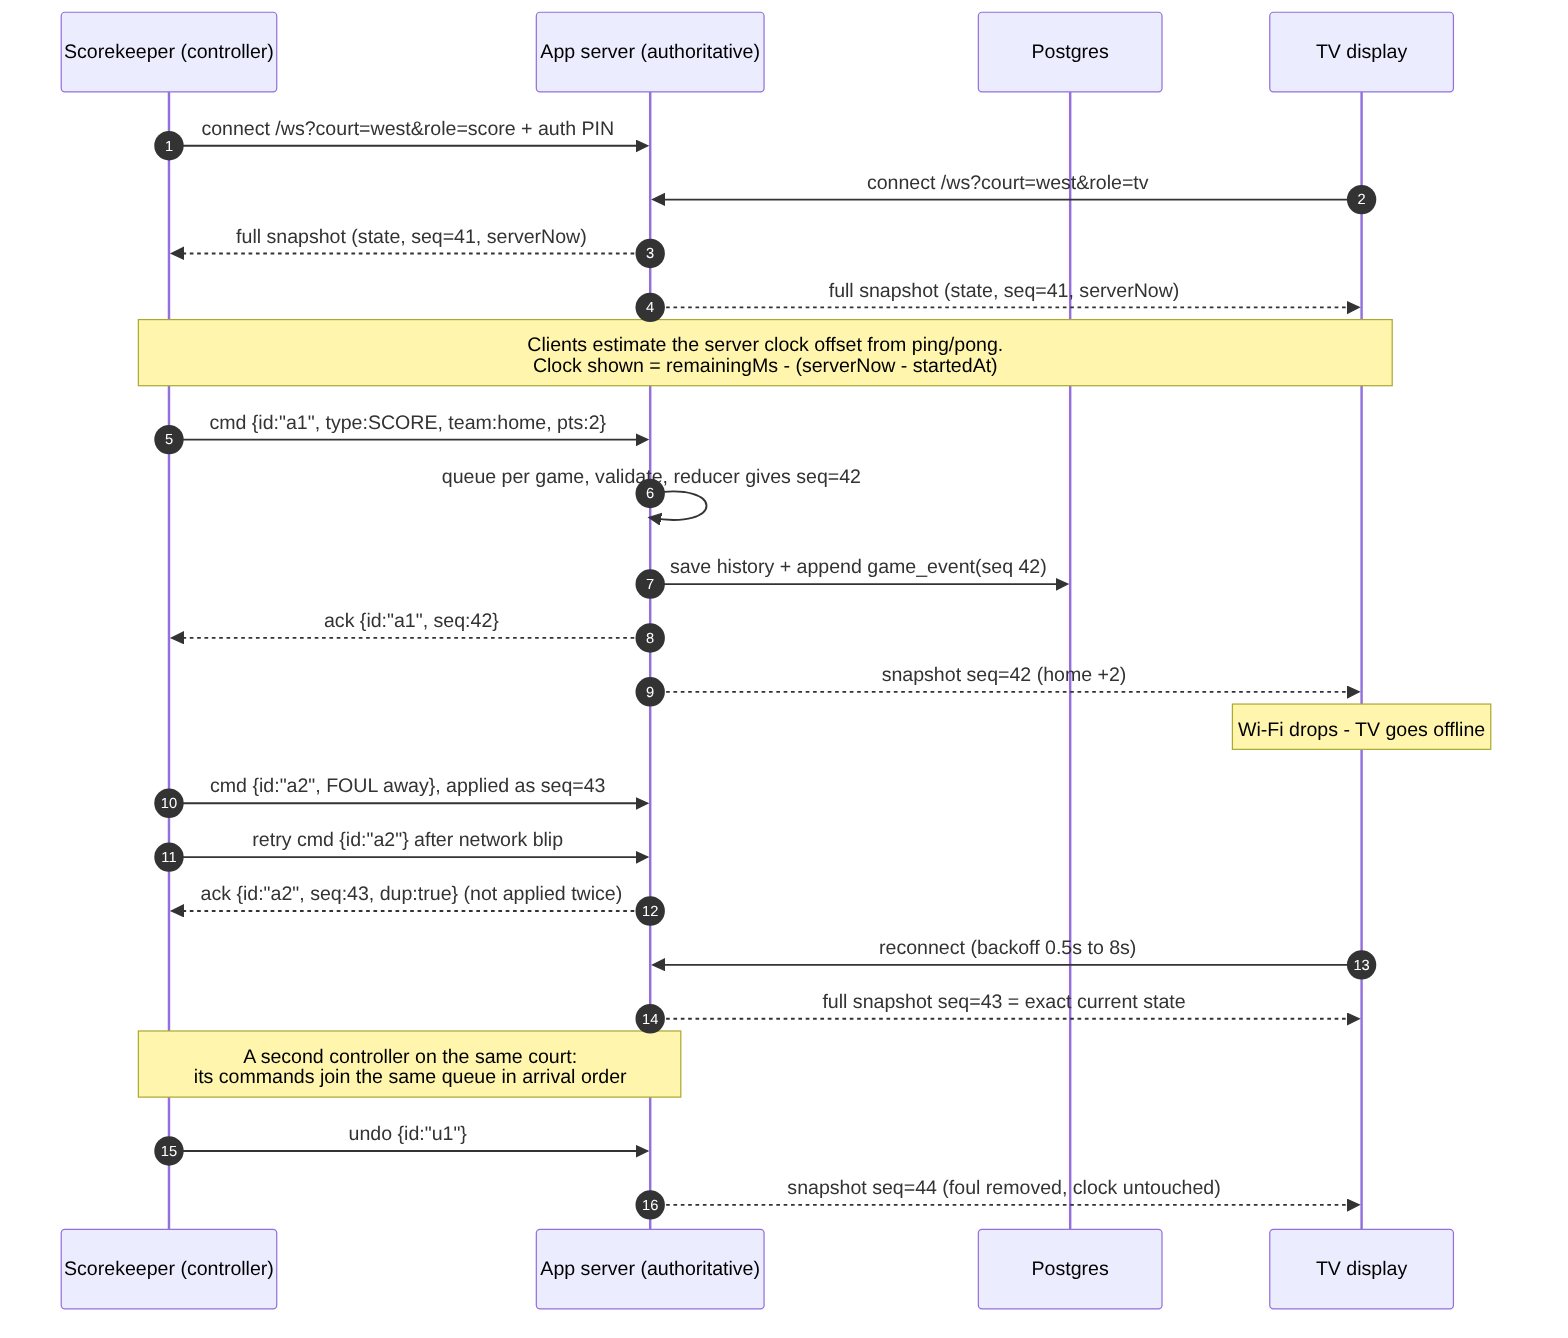
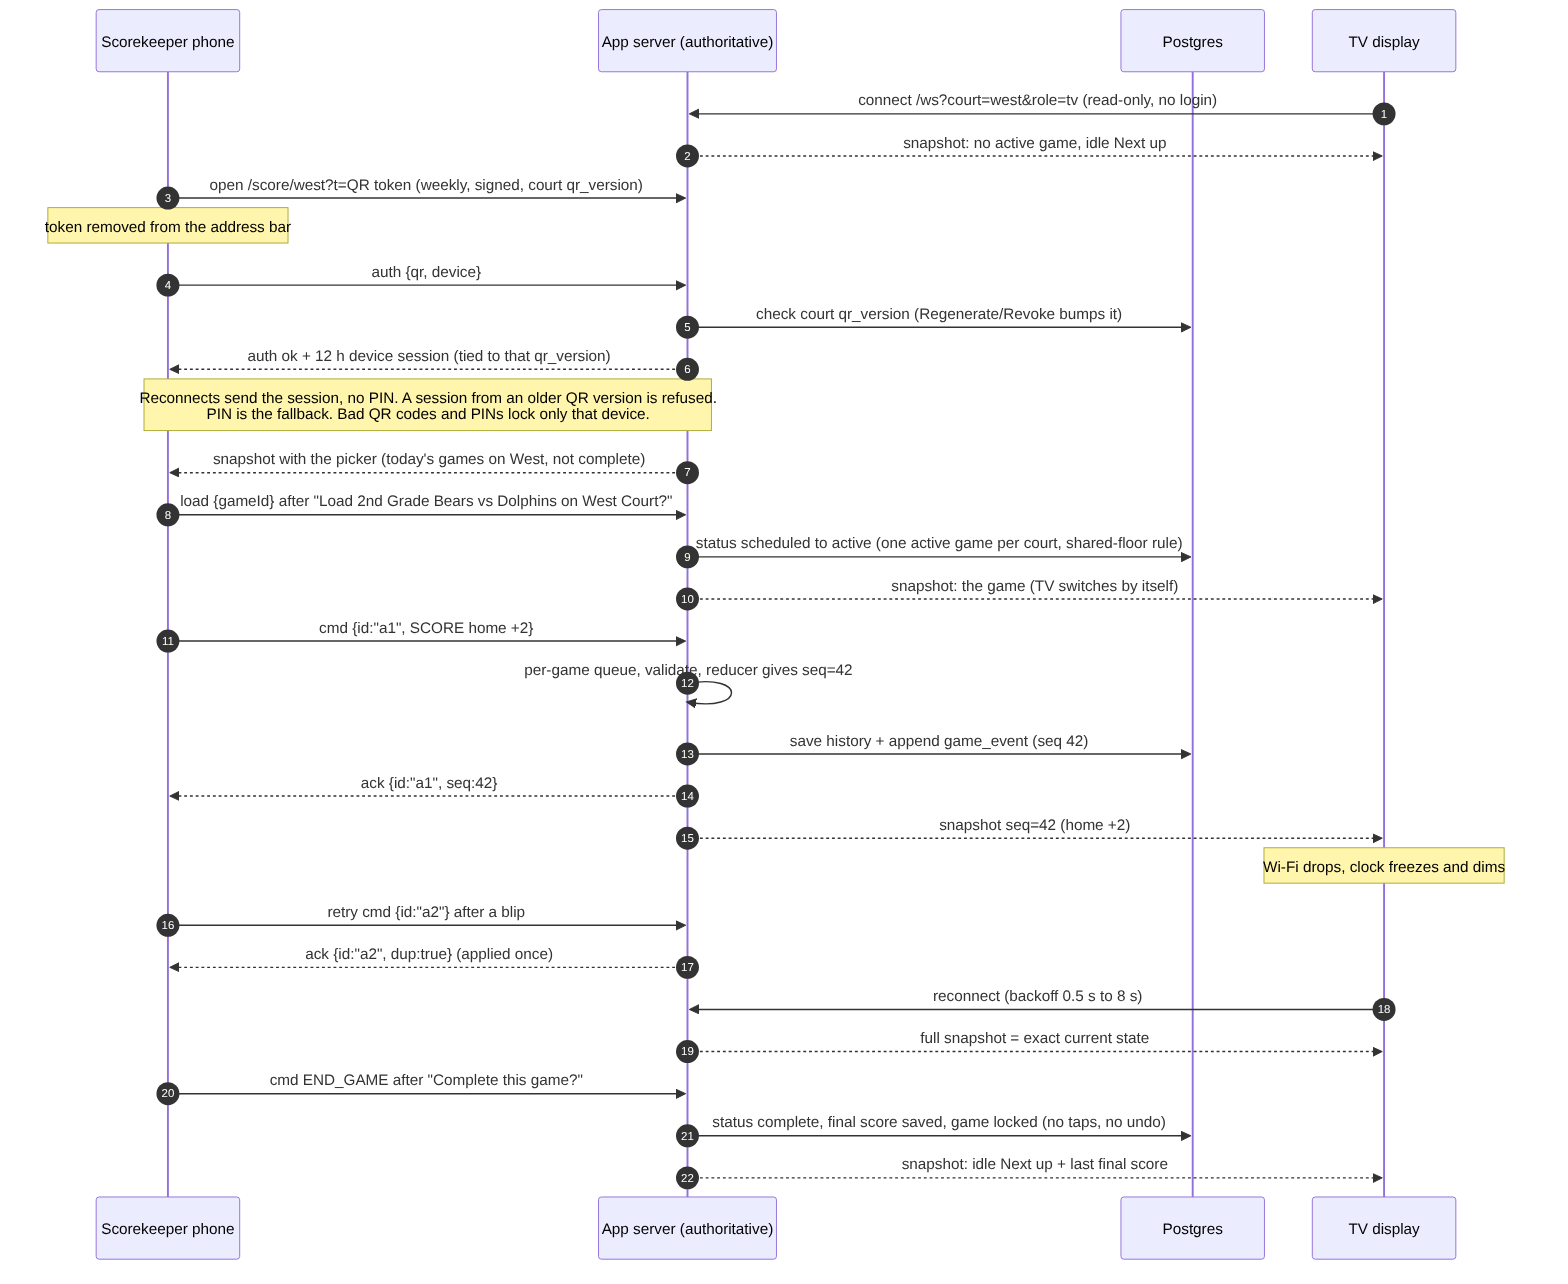
Docs: realtime sequence with QR sign-in -> session -> picker -> load -> complete; POC doc final pass (round 4 fixes, QR invalidation, backstop, CSV partial rows, test counts, backlog)

diff --git a/deliverables/UpwardScoreboard-POC.md b/deliverables/UpwardScoreboard-POC.md
@@ -9,7 +9,7 @@ Prepared by Devon (lead developer) with Sage (UI/UX), Avery (QA) and Morgan (PM)
 - Approach: custom build, fully cloud-hosted. There is no computer at the gym; it needs only a TV device with a browser and the scorekeeper's phone or tablet.
 - Three modules: Score (bench controller), Display (TV board plus stream overlay), Admin (teams, courts, schedule).
 - Stack: one TypeScript Node 20 container that serves the web pages, the API and live WebSocket updates, plus managed Postgres.
-- Status: a working POC runs with docker compose. Current batch (courts, shared floor, grades, season colors, cheer squads, QR scorekeeping flow), on a freshly rebuilt container: unit tests 18/18, browser offline test 13/13, browser lockout test 8/8, browser flow test 15/15, and the end-to-end smoke test 133/133 run twice in a row on the same used database.
+- Status: a working POC runs with docker compose. After QA round 4 fixes, on a freshly rebuilt container: unit tests 18/18, browser offline test 13/13, browser lockout test 8/8, browser flow test 19/19, and the end-to-end smoke test 144/144 run twice in a row on the same used database.
 - Courts: Full (whole floor), West and East (half courts). Full cannot run at the same time as West or East; West and East can run together. See section 3.4.
 - Recommended host: Render, about $13 per month including managed Postgres.
 
@@ -69,7 +69,7 @@ URLs: /score/full, /score/west, /score/east (one link per court; the weekly cour
 
 URLs: /upwardbasketballscores/fullcourt, /upwardbasketballscores/westcourt and /upwardbasketballscores/eastcourt (full-screen TV board), the same with /overlay on the end (transparent scorebug for OBS), and /tv/split (West and East side by side on one TV). The older /tv/west and /overlay/west style links still work. All are public and read-only. Each link stays on the court all day: it shows an idle "Next up" screen between games and switches to the next game by itself.
 
-TV layout: church logo (CHURCH_LOGO_URL) and name, league name and a court · grade · matchup header (for example "West · 5th Grade · Eagles vs Lions"). For each team: a color bar in the team's season color, logo or initial badge, name, optional cheer squad name and logo, a large score, fouls, timeout dots and a BONUS tag. In the center: a red clock, the period (OT1, OT2 for overtime) and the possession arrow. At the bottom: an UP NEXT ticker from the schedule. Also a HALFTIME/FINAL banner, and a waiting screen when no game is on the court.
+TV layout: church logo (CHURCH_LOGO_URL) and name, league name and a court · grade · matchup header (for example "West · 5th Grade · Eagles vs Lions"). For each team: a color bar in the team's season color, logo or initial badge, name, optional cheer squad name and logo, a large score, fouls, timeout dots and a BONUS tag. In the center: a red clock, the period (OT1, OT2 for overtime) and the possession arrow. At the bottom: an UP NEXT ticker from the schedule (games on a later day show the date, for example "Sat Oct 24 · 10:00"). Also a HALFTIME/FINAL banner, and a waiting screen when no game is on the court.
 
 | Behavior | Status | Notes |
 |---|---|---|
@@ -183,7 +183,7 @@ Grades. Each team has a grade (seeded: 2nd, 3rd, 4th and 5th Grade). A game must
 
 Scorekeeping flow (Aaron's Saturday):
 
-1. Each week Admin prints the court QR sheet (Admin > Courts > Print QR codes): one signed code per court, valid until Sunday 23:59 Kansas City time. Regenerate or Revoke on a court makes its old codes stop working at once.
+1. Each week Admin prints the court QR sheet (Admin > Courts > Print QR codes): one signed code per court, valid until Sunday 23:59 Kansas City time. Regenerate or Revoke on a court makes its old codes stop working at once and signs out every phone that signed in with an old code (they see "This phone was signed in with a court QR code that has been replaced…" and can scan the new code or use the PIN). Phones signed in with the PIN stay signed in.
 2. The volunteer scans the court's QR. It opens /score/west, signs the device in for 12 hours and removes the code from the address bar. The court PIN still works as the fallback. A bad, expired or revoked code shows a clear message and counts toward the device lockout, like a wrong PIN.
 3. The phone lists today's games on that court that are not complete. Tapping one asks "Load 5th Grade Eagles vs Lions on West Court?". Confirming makes it the court's active game. Only one game can be active per court (enforced by the database), and the shared-floor rule applies.
 4. The TV and overlay links switch to the active game automatically, and back to the idle "Next up" screen (with the last final score) when it is completed.
@@ -203,7 +203,7 @@ Recommendation: A, with C on the main site for a friendly link. Set PUBLIC_BASE_
 
 Migration. No wipe is needed. On start the server renames an existing court-1 to west and court-2 to east (keeping their games), adds full with its floor rule, maps old statuses (live to active, final to complete; if a court had more than one live game, the extra ones are completed), and adds the new columns with defaults. This was tested on a copy of a database from the previous version and is safe to run repeatedly. Update COURT_PINS to full, west and east. For a clean demo with today's sample games, reset the dev database with docker compose down -v.
 
-Test counts for this batch (freshly rebuilt container): unit 18/18; browser offline 13/13; browser lockout 8/8; browser flow 15/15 (QR sign-in, picker, complete lock, resume, TV switching); smoke 133/133 (including team names per grade and the cheer logo export), run twice in a row on the same used database (covers floor overlap in CSV and Admin, grades, season colors, cheer squads, QR tokens, one active game per court, complete locking and the status export and import).
+Test counts (after the QA round 4 fixes, freshly rebuilt container): unit 18/18; browser offline 13/13; browser lockout 8/8; browser flow 19/19 (QR sign-in, picker, complete lock, resume, TV switching, sign-out on Regenerate, QR lockout wording, idle cleanup); smoke 144/144 (including team names per grade, cheer logo export, QR session invalidation, the shared-IP spare phone case and the round 4 CSV fixes), run twice in a row on the same used database (covers floor overlap in CSV and Admin, grades, season colors, cheer squads, QR tokens, one active game per court, complete locking and the status export and import).
 
 Markup added for Sage (functional only, unstyled where noted): church logo and name on the TV and overlay; cheer squad slots on the TV; grade spans on the TV, overlay and scorekeeper; idle screen #idle with #next-up and .last-final (unstyled); scorekeeper #picker with .pick items and .status-badge, #resume prompt, dialog#confirm-dialog and #complete-game; Admin #season-form with the .contrast-warn box, #swap-colors, #cheer-fields, grade filters, status badges, Start/Complete/Reopen buttons and the QR print panel #qr-panel (print-friendly .qr-card, .no-print buttons); public/split.html with split.css (Sage owns it).
 
@@ -212,7 +212,7 @@ What Avery should test in this batch:
 1. Start West and East together; then try to start Full: refused ("Full is live"), and Admin's "Start anyway?" works.
 2. Import a schedule CSV where a Full game overlaps a West game: that row is an error naming the game. Try a 45-minute game using the minutes column.
 3. Mixed-grade game in CSV and in Admin: refused.
-4. Scan a printed QR on a phone: signed in, the code disappears from the address bar. Regenerate in Admin: the old printout fails with a clear message. Several bad codes trigger the lockout countdown.
+4. Scan a printed QR on a phone: signed in, the code disappears from the address bar. Regenerate in Admin: the old printout fails with a clear message, and a phone already signed in with it is signed out. Several bad codes trigger the lockout countdown with QR wording ("Too many invalid QR codes…"), and other phones on the same Wi-Fi keep working.
 5. Picker, confirm, score, Complete game: the score locks and the TV goes to Next up. Reload mid-game: Resume is offered. Admin Reopen works.
 6. Swap colors on one game; cheer squads with and without logos on the TV; the overlay shows no cheer squads; the scorekeeper never does.
 7. Export the schedule, mark a never-started game complete with scores, re-import.
@@ -271,7 +271,7 @@ Planned later: seasons, divisions, users with roles, and hashed per-day court PI
 | Role | POC | Next step |
 |---|---|---|
 | Admin | Password from server settings. Signed session cookie for 12 hours. 5 wrong passwords lock that address for 30 s (doubling, max 15 min) with HTTP 429 and Retry-After | Google sign-in with a users table |
-| Scorekeeper | PIN for each court, valid only for that court. A correct PIN gives that device a signed 12-hour session for that court, stored on the device; reconnects use it and are never affected by lockouts. The weekly court QR gives the same session (section 3.4); a bad or expired QR counts as a wrong PIN. Wrong PINs are counted per court and per device: 5 wrong lock that device for that court for 30 s (doubling, max 15 min) with an on-screen countdown, and close the connection. A backstop of 50 wrong PINs from one network address locks that address. TV and overlay links are read-only, and their connections never count toward a lockout | Per-day PINs; per-person logins |
+| Scorekeeper | PIN for each court, valid only for that court. A correct PIN gives that device a signed 12-hour session for that court, stored on the device; reconnects use it and are never affected by lockouts. The weekly court QR gives the same session (section 3.4), tied to the court's QR version: Regenerate or Revoke ends QR sessions, PIN sessions stay. Wrong PINs and bad QR codes are counted per court and per device: 5 lock that device for that court for 30 s (doubling, max 15 min) with an on-screen countdown (with QR wording for bad codes), and close the connection. A backstop of 100 wrong PINs from one network address (gym phones share one) blocks further PIN tries from that address; bad QR codes never count toward it, and valid sessions and valid QR codes are never blocked by it. TV and overlay links are read-only, and their connections never count toward a lockout | Per-day PINs; per-person logins |
 | Public viewer | TV and overlay need no login; the server rejects any command from them | Optional public live-scores page |
 
 HTTPS is provided by the host. Secrets live only in host settings, never in the code repository.
@@ -355,7 +355,7 @@ Files in sheets-templates/. They match the POC importer exactly. Import them in 
 
 A file missing a required column is rejected as a whole with a message naming the column. Every bad row is reported with its row number; good rows still import. Re-importing the same file, or an export, changes nothing (all rows reported as skipped).
 
-Exports use the same columns. The schedule export starts with the game id (keep it) and adds home_score, away_score and status. Scores are the final score for completed games and the current score for active games. On import, status is optional: a game that never started can be set to complete with its scores (for paper-scored games); changing the status of a game that has already started is a row error, and other values are ignored. A note on keeping the id column is also in sheets-templates/README.md. In Google Sheets, use File > Download > CSV to produce a file for import, and File > Import > Upload to open an export.
+Exports use the same columns. The schedule export starts with the game id (keep it) and adds home_score, away_score and status. Scores are the final score for completed games and the current score for active games. On import, status is optional: a game that never started can be set to complete with its scores (for paper-scored games); changing the status of a game that has already started is a row error. A row with only id and status (plus scores; the other cells blank or the columns left out) changes just the status. Clearing a cheer logo cell removes that game's uploaded logo; a cheer logo address that points to another game's uploaded logo (a copied row) is not carried over, and the row imports with a warning. A note on keeping the id column is also in sheets-templates/README.md. In Google Sheets, use File > Download > CSV to produce a file for import, and File > Import > Upload to open an export.
 
 ## 11. Known risks and gaps
 
@@ -364,7 +364,7 @@ Exports use the same columns. The schedule export starts with the game id (keep 
 | Gym Wi-Fi (captive portal, weak signal) | The TV or controller can't reach the cloud | Test before the pilot; bring a hotspot or travel router; Keepthescore as fallback |
 | Taps during long outages are kept only in memory | Taps can be lost if the page is closed while offline | Offline app mode with stored queue (next step) |
 | POC-level auth (PINs in server settings, 4-digit PINs) | Guessing is now throttled, but PINs are shared and long-lived | Per-day PINs, Google sign-in for admins |
-| PIN lockouts are per court and device, held in memory | Someone guessing on one court cannot lock out other courts or a scorekeeper already signed in (sessions skip the PIN). Lockouts reset when the server restarts, and a guesser who clears site data gets a new device id (5 more tries); the 50-per-address backstop and 4-digit PINs limit this to slow guessing | Per-day PINs, per-person logins later |
+| PIN lockouts are per court and device, held in memory | Someone guessing on one court cannot lock out other courts or a scorekeeper already signed in (sessions skip the PIN). Lockouts reset when the server restarts, and a guesser who clears site data gets a new device id (5 more tries); the 100-per-address PIN backstop and 4-digit PINs limit this to slow guessing; bad QR codes lock only the device that sent them | Per-day PINs, per-person logins later |
 | Scorekeeper sessions last 12 hours | Anyone holding an unlocked phone can score on that court for the day. Changing SESSION_SECRET signs everyone out | Per-day PINs; a sign-out button |
 | Schedule times in the 1 a.m. hour on the night clocks fall back are ambiguous in league time | Two such games with the same court and teams could look like duplicates on re-import. Not realistic for youth games | Store the UTC offset in exports if ever needed |
 | Single app instance | Restart takes a few seconds (state is preserved) | Fine for a league; coordination layer before scaling out |
@@ -393,7 +393,13 @@ From QA round 1 (Avery). Fixed in round 1: silent network drops (#1), duplicate 
 | Phone controller shows the clock above the teams | Backlog (Sage) | Decide the layout order after the pilot |
 | Horn, player fouls, shot clock; matchup logo override in the Admin form | Backlog | |
 | Cheer squads on the overlay | Backlog | The scorebug has no room; shown on the TV only |
-| Idle "Next up" screen and the new scorekeeper picker, resume and confirm markup are unstyled | Backlog (Sage) | Functional markup only; see the list for Sage in section 3.4 |
+| QA round 4: Regenerate did not sign out phones already signed in with the old QR | Fixed (round 4) | QR sessions carry the QR version; see section 7 |
+| QA round 4: QR lockout said "Too many wrong PINs" | Fixed (round 4) | "Too many invalid QR codes on this phone…"; the message box gets data-cause="qr" |
+| QA round 4: blank cheer logo cell kept an uploaded logo; copied rows carried another game's logo address | Fixed (round 4) | See section 10 |
+| QA round 4: id + status rows failed with "home team is empty" | Fixed (round 4) | Partial rows update only the status |
+| QA round 4: Up next listed later-day games with the time only | Fixed (round 4) | Later days show the date, for example "Sat Oct 24 · 10:00" |
+| QA round 4: leftover team color class on the idle TV | Fixed (round 4) | The idle screen clears every per-game class and color |
+| Offline dimming on the idle, picker, resume and confirm screens | Backlog (Sage) | Every screen now carries data-conn; the dim style is CSS |
 | Maroon text directly on the dark TV background is 1.41:1 | Handled (Sage) | contrast.js lightens it automatically; worth a look on the real TV |
 
 ## 13. On-site test checklist for Aaron

diff --git a/deliverables/sheets-templates/README.md b/deliverables/sheets-templates/README.md
@@ -12,8 +12,10 @@ A game that is not scheduled yet can have date and time both empty (court may be
 
 Team names are unique within a grade: 2nd Grade Eagles and 5th Grade Eagles are two teams (see teams.csv). teams.csv matches on grade + name. In schedule.csv, fill the grade column when a team name exists in more than one grade; without it, a name used in one grade only is found automatically, and a name in several grades takes the other team's grade, otherwise the row is an error.
 
-home_score and away_score are ignored on import. status is optional: a game that never started can be set to complete with its scores; other status changes are made in Admin.
+home_score and away_score are used only with status complete. status is optional: a game that never started can be set to complete with its scores; other status changes are made in Admin.
 
 Uploaded cheer logos are exported as the full address of the served file; re-importing keeps the upload.
 
 Full column reference: section 10 of ../UpwardScoreboard-POC.md.
+
+Partial rows: a row with only id and status (and home_score/away_score for complete) changes just that game's status; the other columns can be blank or left out. Clearing a cheer logo cell removes the game's uploaded logo. A cheer logo address that points to another game's uploaded logo (for example after copying a row) is not carried over; the row imports with a warning, so upload the logo for the new game in Admin.

diff --git a/README.md b/README.md
@@ -39,7 +39,7 @@ npm test                  # reducer unit tests (score, fouls/bonus, clock, timeo
 CHROME_PATH=/usr/bin/google-chrome node scripts/offline-e2e.mjs  # Playwright setOffline: Offline in <5 s, clock freezes, recovers
 CHROME_PATH=/usr/bin/google-chrome node scripts/lockout-e2e.mjs # wrong PINs on east don't affect signed-in west; queued tap delivered
 CHROME_PATH=/usr/bin/google-chrome node scripts/flow-e2e.mjs    # QR sign-in, picker, complete lock, resume, TV switching
-node scripts/smoke.mjs    # end-to-end (133 checks, repeatable on a used DB): 3 courts + shared-floor rule, grades (team names unique per grade), season colors, cheer squads, QR flow, statuses, sync, reconnect, undo, idempotent CSV, errors, logos, lockouts, sessions.
+node scripts/smoke.mjs    # end-to-end (144 checks, repeatable on a used DB): 3 courts + shared-floor rule, grades (team names unique per grade), season colors, cheer squads, QR flow, statuses, sync, reconnect, undo, idempotent CSV, errors, logos, lockouts, sessions.
                           # Repeatable on a used DB (own uniquely named fixtures); waits out an admin-login lock left by a previous run
 node scripts/latency.mjs  # tap -> TV latency (median/p95)
 CHROME_PATH=/usr/bin/google-chrome node scripts/screenshots.mjs   # writes docs/screenshots/*.png
